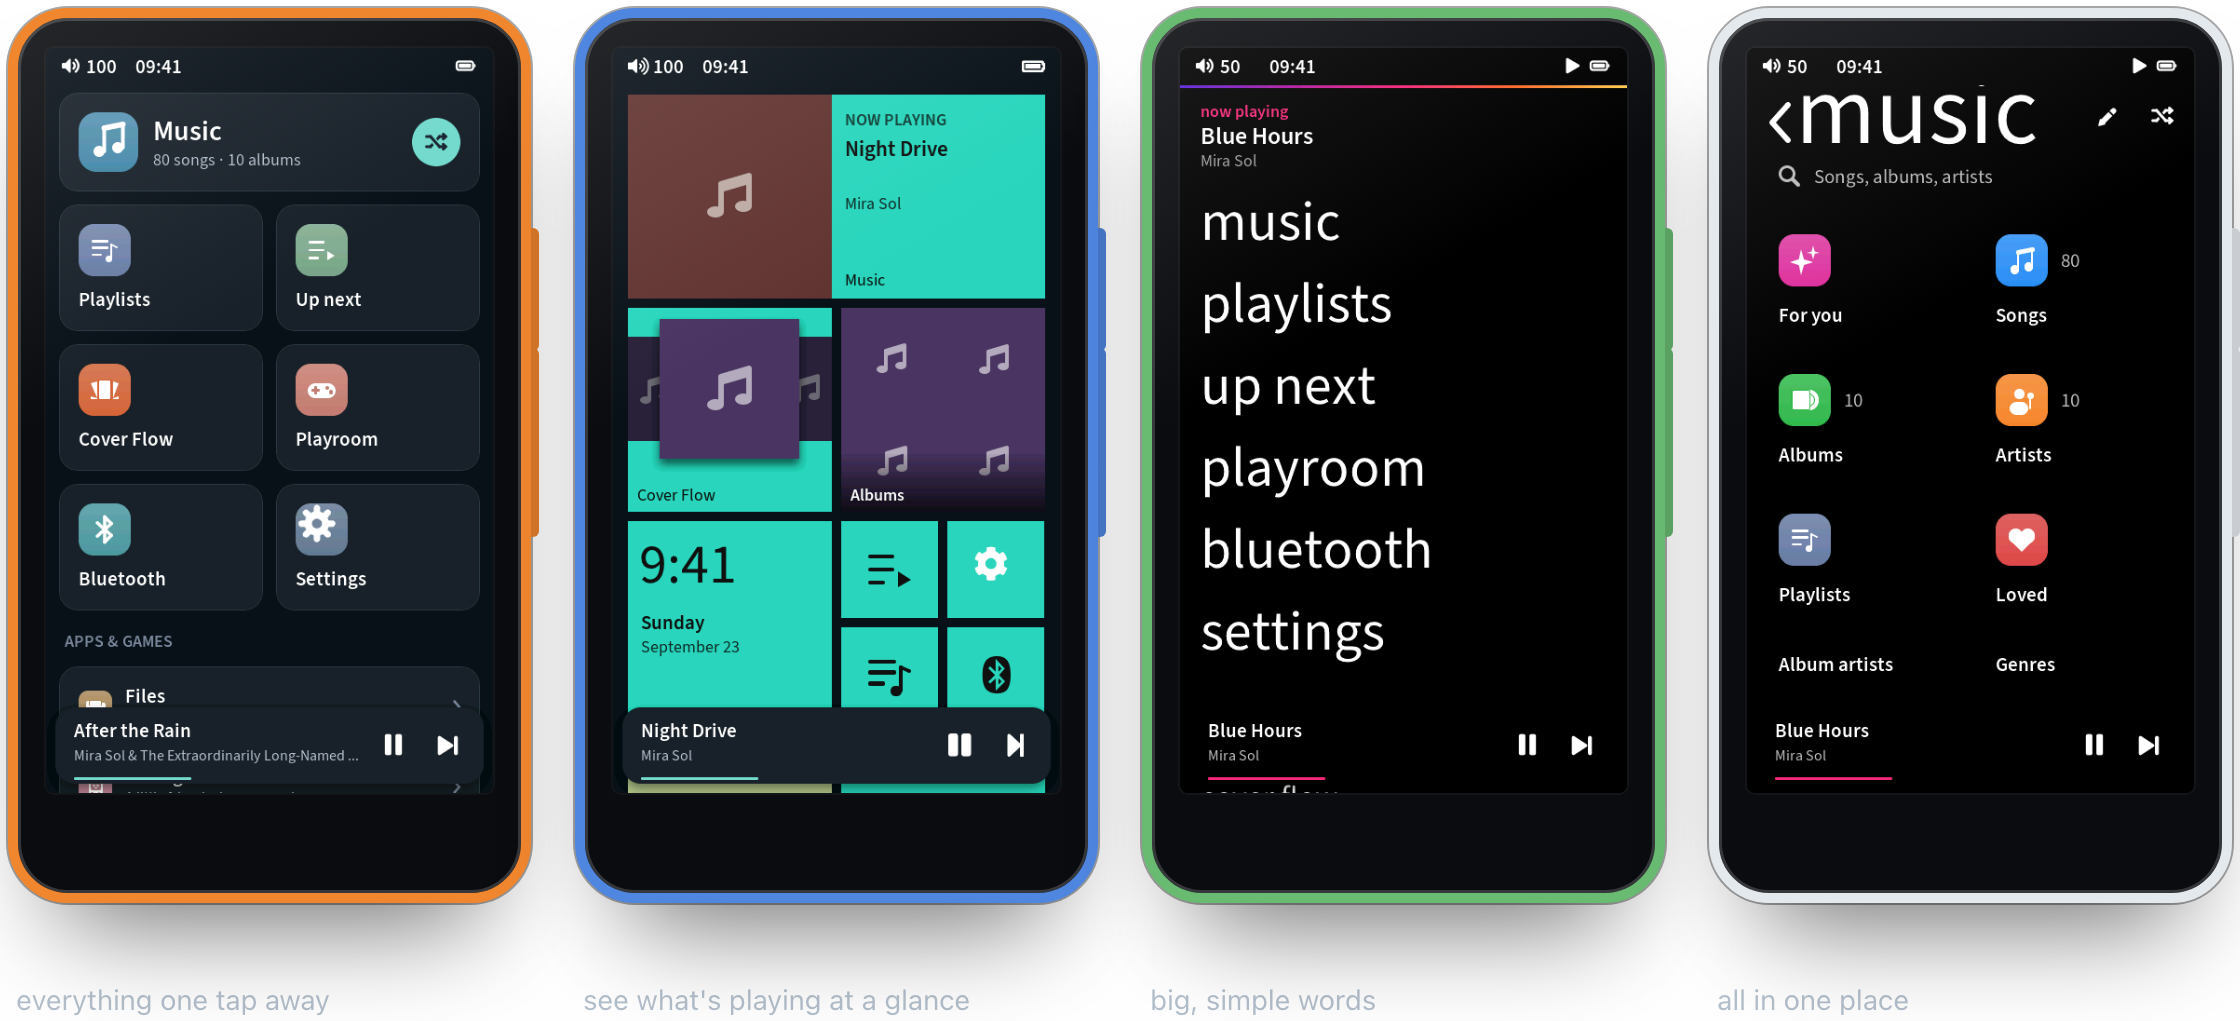
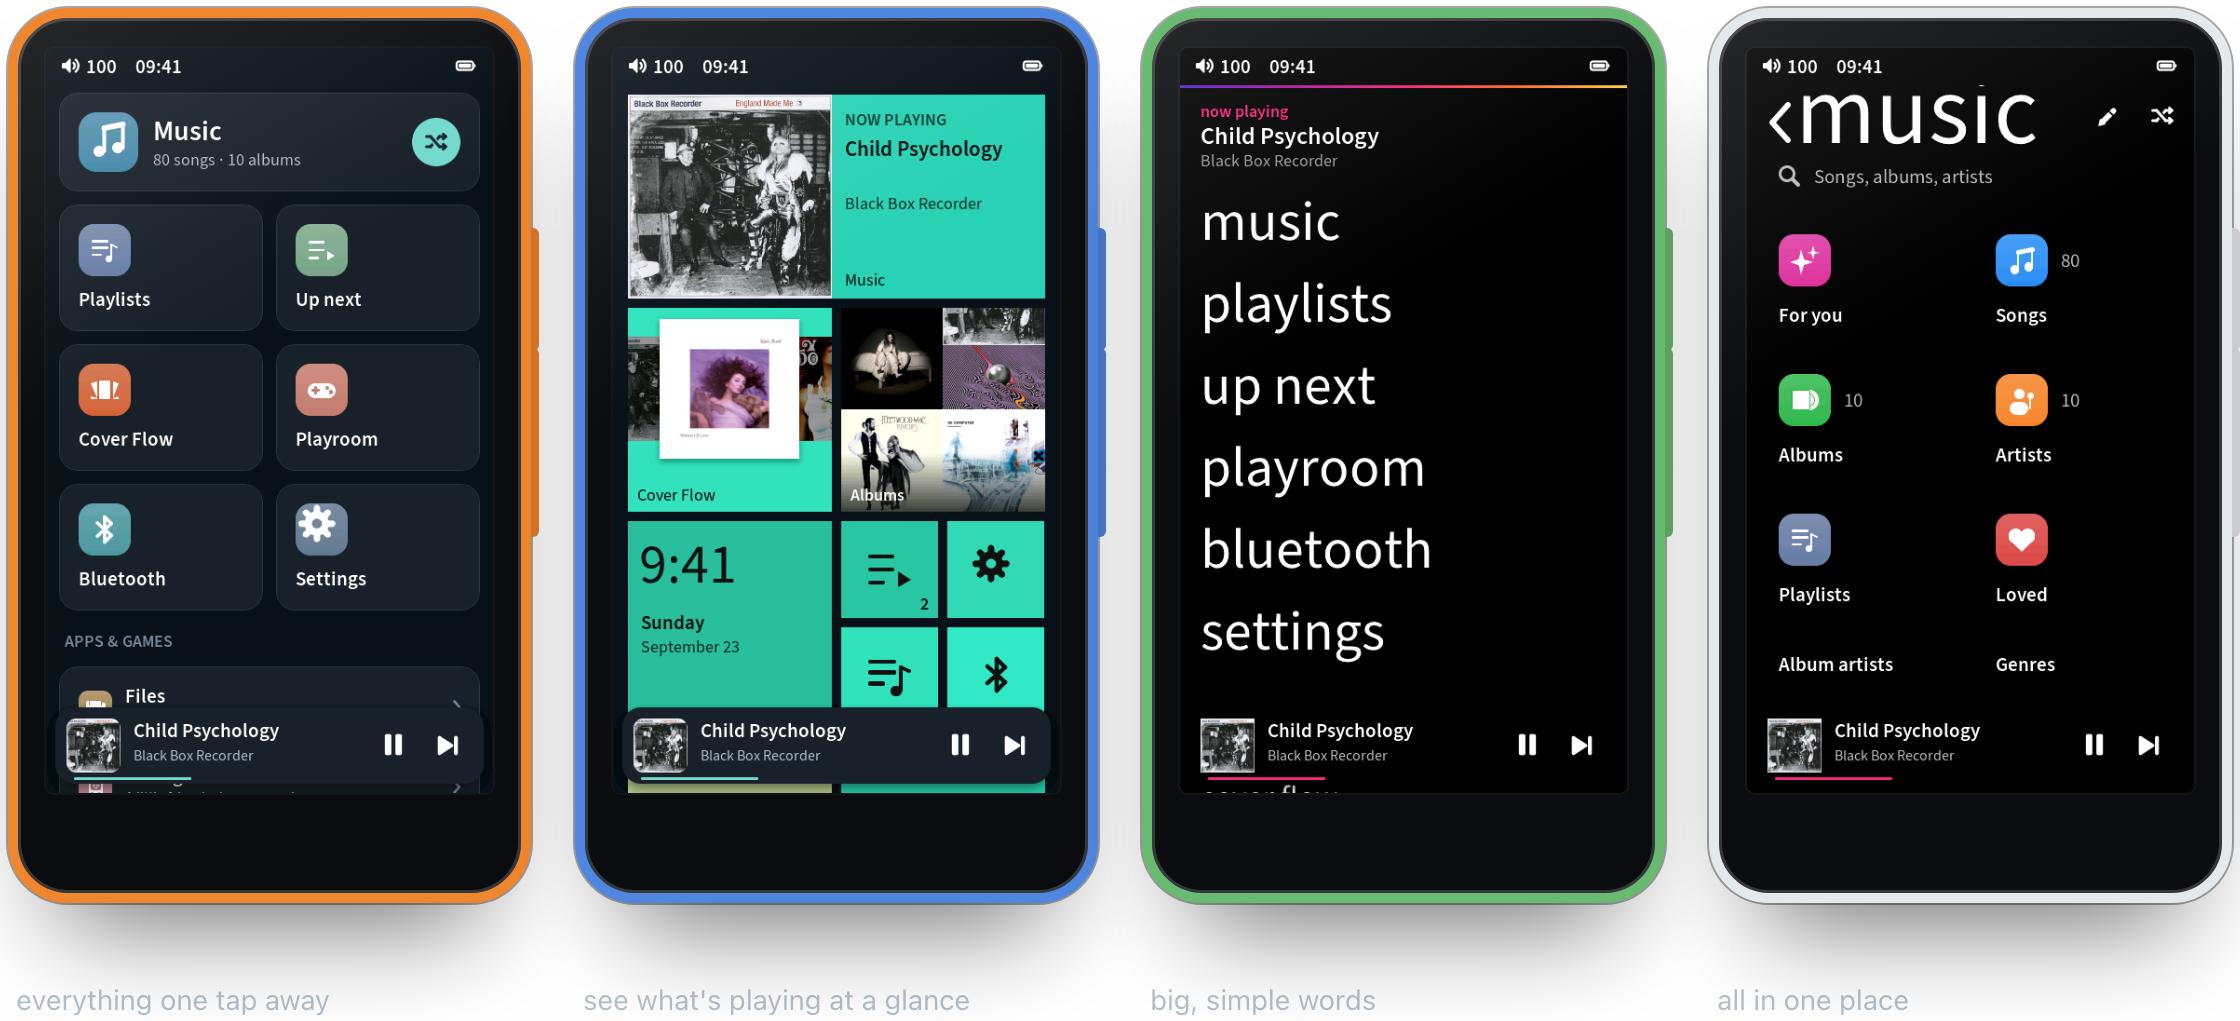
Front page: real music in every screenshot

diff --git a/README.md b/README.md
@@ -1,7 +1,7 @@
 <a href="https://github.com/BlueDreams666/gabagoolOS/releases/latest">
 <picture>
   <source media="(prefers-color-scheme: dark)" srcset="assets/hero-dark.png">
-  <img src="assets/hero-light.png" width="880" alt="gabagoolOS 1.1, Game on then. A neon sign reads: gabagool? ova haaaa! Your R1 just got made: fast, pretty new software for your HiBy R1. It runs from your SD card, and it's open source. Beside it, three R1s showing the Music page, the Tiles home and Now Playing.">
+  <img src="assets/hero-light.png" width="880" alt="gabagoolOS 1.1, Game on then. A neon sign reads: gabagool? ova haaaa! Your R1 just got made: fast, pretty new software for your HiBy R1. It runs from your SD card, and it's open source. Beside it, three R1s showing the Music page, the Tiles home and Now Playing with Say It Right by Nelly Furtado.">
 </picture>
 </a>
 
